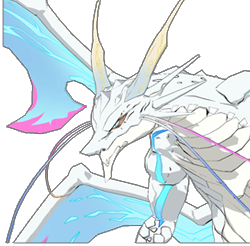
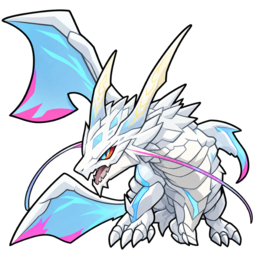
新規作戦のボス画像の初期値を 0_unknown にし、ボス画像 2 枚を更新する

diff --git a/web/app.js b/web/app.js
@@ -66,15 +66,14 @@ function blockLen(st = state) { return timelag(st) + COOL_TIME; }
 // ---------------------------------------------------------------- 状態
 
 function defaultState() {
-  const img = (n) => (IMAGES.includes(n) ? n : IMAGES[0] || "");
+  const unknown = IMAGES.includes("/image/0_unknown.png") ? "/image/0_unknown.png" : IMAGES[0] || "";
   return {
     constants: {
       comment: CONFIG.comment,
       start_time: "",
       timelag: String(CONFIG.timelag),
       "1st_boss": "blue", "2nd_boss": "red", "3rd_boss": "green", "Realm_boss": "yellow",
-      image_1st: img("/image/dragon_blue.png"), image_2nd: img("/image/dragon_red.png"),
-      image_3rd: img("/image/dragon_green.png"), image_realm: img("/image/dragon_yellow.png"),
+      image_1st: unknown, image_2nd: unknown, image_3rd: unknown, image_realm: unknown,
       display_team: true, display_boss: false, display_party: false,
     },
     extras: [],   // GUI が扱わない定数 [key, value]
